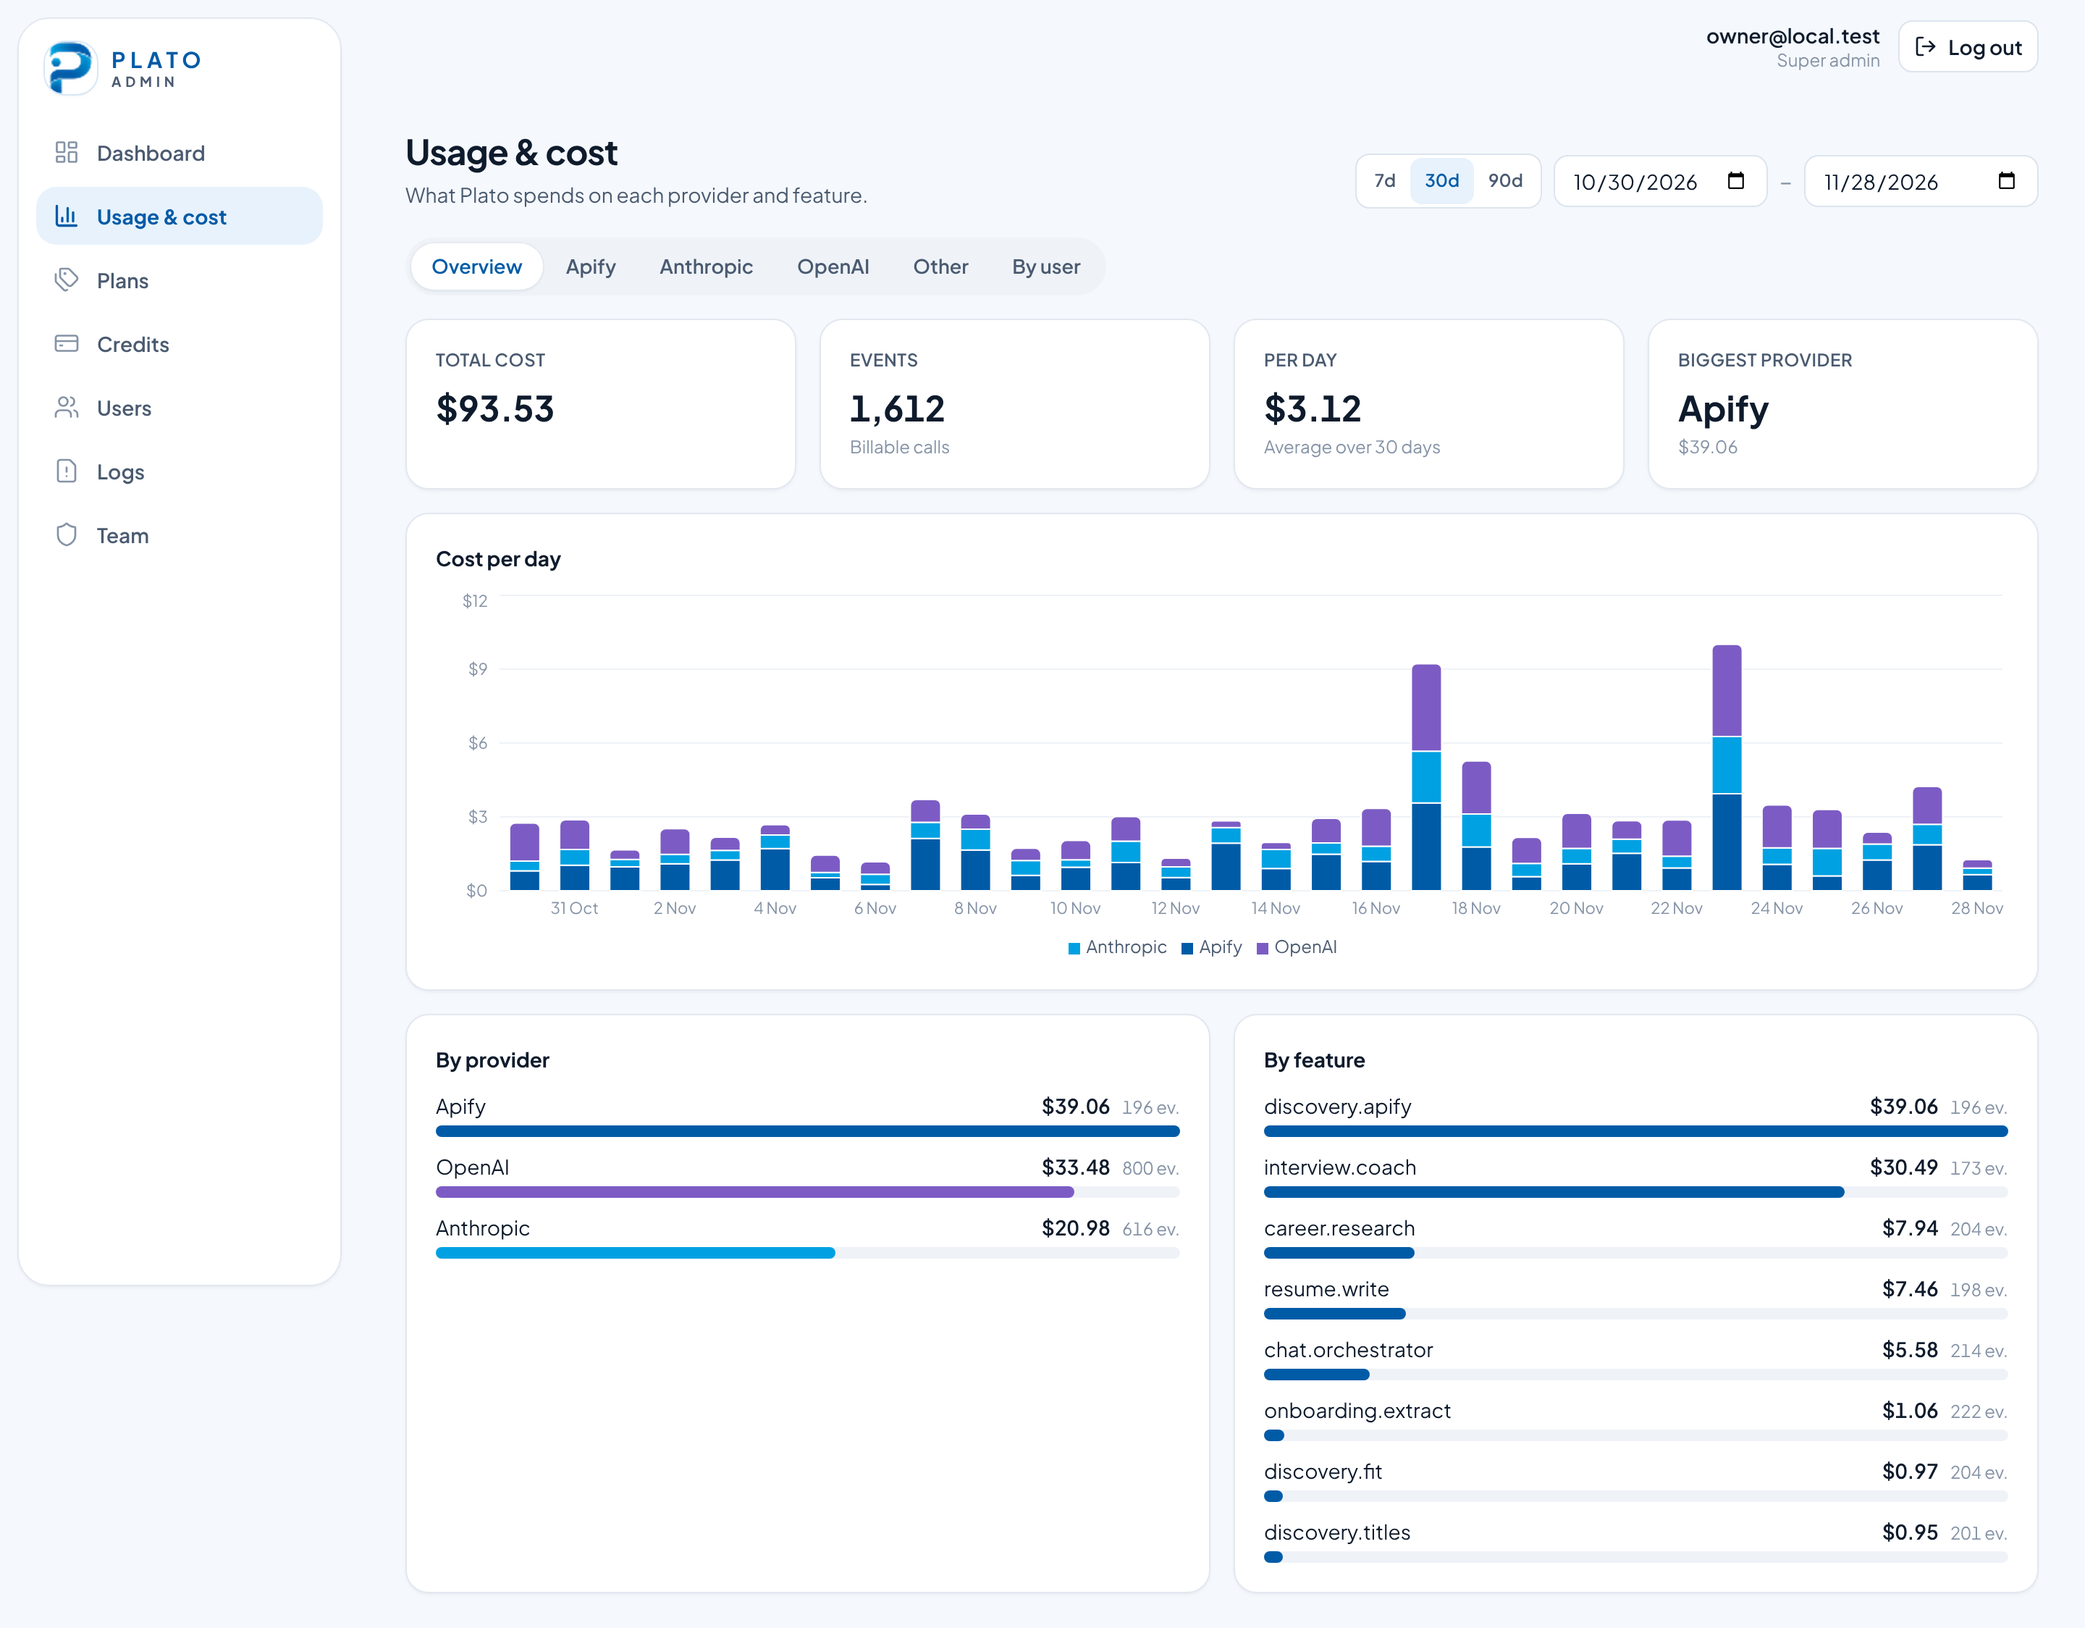
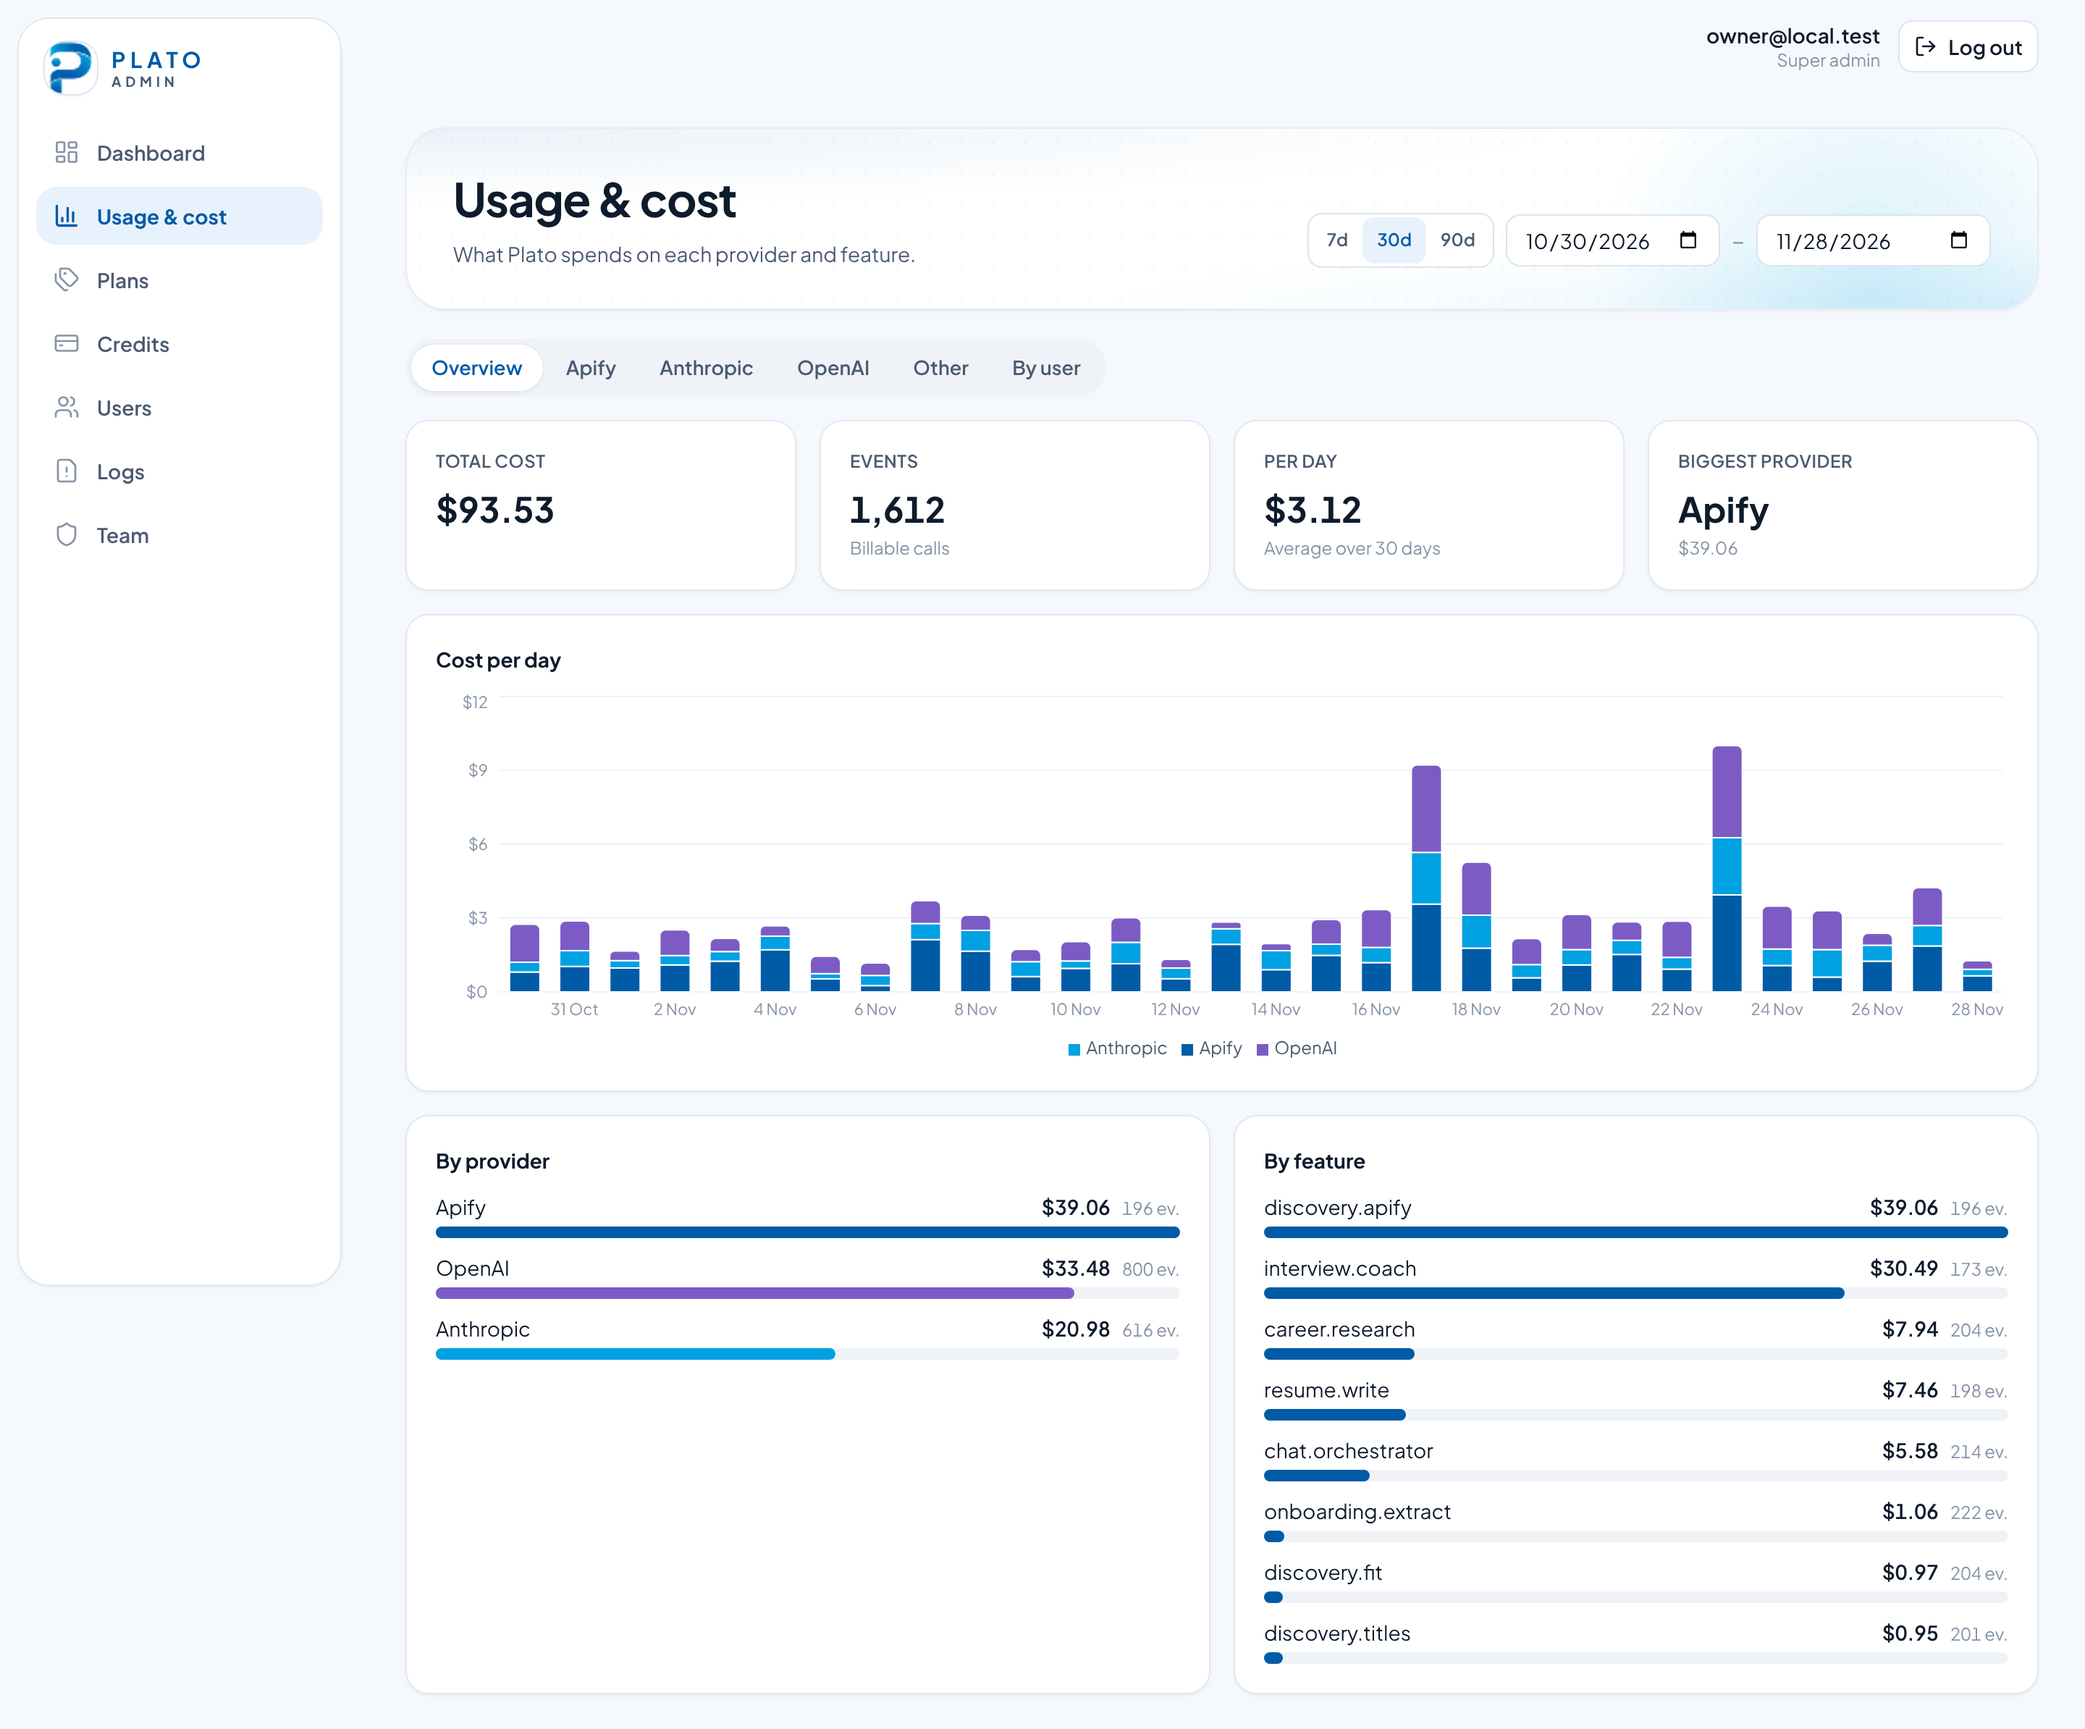
Admin: every page's header is the brand panel (fx-depth layers), section name above sub-pages
Claude-Session: https://claude.ai/code/session_01VMzvXqUWVHxk74mjrZamoN

diff --git a/plato-admin/src/components/BrandHeader.tsx b/plato-admin/src/components/BrandHeader.tsx
@@ -7,15 +7,34 @@ export const BRAND_PANEL =
 // Chips and secondary controls sitting on the brand panel.
 export const BRAND_GLASS = 'border border-primary-line/70 bg-card/85 backdrop-blur-sm';
 
-const greeting = (h = new Date().getHours()) => (h < 5 ? 'Good evening' : h < 12 ? 'Good morning' : h < 18 ? 'Good afternoon' : 'Good evening');
+export const greeting = (h = new Date().getHours()) =>
+  h < 5 ? 'Good evening' : h < 12 ? 'Good morning' : h < 18 ? 'Good afternoon' : 'Good evening';
+
+/** "Saturday, 28 November". */
+export const today = (d = new Date()) =>
+  `${d.toLocaleDateString('en-GB', { weekday: 'long' })}, ${d.toLocaleDateString('en-GB', { day: 'numeric', month: 'long' })}`;
 
 /**
- * A page's header as the seeker Home draws it: date, greeting, title line, a status pill, and the
- * page's actions in the usual top-right spot. Its two background layers drift with the pointer at
- * their own rates (.fx-depth, written by CardFx); still with reduced motion or on touch.
+ * Every page's header, as the seeker Home draws it: a small eyebrow, the title, a line under it
+ * (plain text, or a status pill with a live dot), and the page's actions in the usual top-right spot.
+ * Its two background layers drift with the pointer at their own rates (.fx-depth, written by CardFx);
+ * still with reduced motion or on touch.
  */
-export function BrandHeader({ title, status, live, actions }: { title: ReactNode; status?: ReactNode; live?: boolean; actions?: ReactNode }) {
-  const now = new Date();
+export function BrandHeader({
+  eyebrow,
+  title,
+  description,
+  status,
+  live,
+  actions,
+}: {
+  eyebrow?: ReactNode;
+  title: ReactNode;
+  description?: ReactNode;
+  status?: ReactNode;
+  live?: boolean;
+  actions?: ReactNode;
+}) {
   return (
     <section className={`${BRAND_PANEL} fx-depth enter relative isolate mb-5 overflow-hidden rounded-[28px] px-5 py-6 shadow-card sm:px-8 sm:py-7`}>
       <span
@@ -28,12 +47,9 @@ export function BrandHeader({ title, status, live, actions }: { title: ReactNode
       />
       <div className="flex flex-col gap-5 lg:flex-row lg:items-end lg:justify-between">
         <div className="min-w-0">
-          <p className="text-[12px] font-bold tracking-[0.22em] text-text-tertiary uppercase">
-            {now.toLocaleDateString('en-GB', { weekday: 'long' })}, {now.toLocaleDateString('en-GB', { day: 'numeric', month: 'long' })}
-          </p>
-          <h1 className="mt-2 text-[28px] leading-tight font-extrabold tracking-tight sm:text-[34px]">
-            {greeting()} <span className="text-text-tertiary">·</span> {title}
-          </h1>
+          {eyebrow && <p className="text-[12px] font-bold tracking-[0.22em] text-text-tertiary uppercase">{eyebrow}</p>}
+          <h1 className={`${eyebrow ? 'mt-2' : ''} text-[26px] leading-tight font-extrabold tracking-tight break-words sm:text-[32px]`}>{title}</h1>
+          {description && <div className="mt-2 text-sm text-text-secondary">{description}</div>}
           {status && (
             // wraps on a phone instead of cutting the numbers off; one line from sm up
             <p className={`${BRAND_GLASS} mt-3 inline-flex max-w-full items-center gap-2.5 rounded-2xl py-1.5 pr-4 pl-2.5 text-sm sm:rounded-full`}>
@@ -45,7 +61,7 @@ export function BrandHeader({ title, status, live, actions }: { title: ReactNode
             </p>
           )}
         </div>
-        {actions && <div className="flex flex-wrap items-center gap-2 lg:justify-end">{actions}</div>}
+        {actions && <div className="flex shrink-0 flex-wrap items-center gap-2 lg:justify-end">{actions}</div>}
       </div>
     </section>
   );

diff --git a/plato-admin/src/components/ui.tsx b/plato-admin/src/components/ui.tsx
@@ -1,22 +1,23 @@
 import { useId, type ReactNode } from 'react';
-import { Link, NavLink } from 'react-router';
+import { Link, NavLink, useLocation } from 'react-router';
 import { ArrowUpRight, Loader2 } from 'lucide-react';
 import * as m from 'motion/react-m';
 import type { ApiError } from '../lib/api';
 import { spring } from '../lib/motion';
+import { NAV } from '../lib/nav';
+import { BrandHeader } from './BrandHeader';
 import { CountUp } from './CountUp';
 
-/** Title on the left, the page's action bar on the right — the same spot on every page. */
-export function PageHeader({ title, description, actions }: { title: ReactNode; description?: ReactNode; actions?: ReactNode }) {
-  return (
-    <div className="mb-5 flex flex-col gap-3 sm:flex-row sm:items-end sm:justify-between">
-      <div className="min-w-0">
-        <h1 className="truncate text-xl font-bold tracking-tight sm:text-2xl">{title}</h1>
-        {description && <p className="mt-1 text-sm text-text-secondary">{description}</p>}
-      </div>
-      {actions && <div className="flex flex-wrap items-center gap-2 sm:justify-end">{actions}</div>}
-    </div>
-  );
+/**
+ * Every page's header: the brand panel (components/BrandHeader.tsx) with the section's name as its
+ * eyebrow, the title, its description, and the page's action bar on the right — the same spot on every page.
+ */
+export function PageHeader({ title, description, actions, eyebrow }: { title: ReactNode; description?: ReactNode; actions?: ReactNode; eyebrow?: ReactNode }) {
+  const { pathname } = useLocation();
+  const section = NAV.find((n) => n.to !== '/' && (pathname === n.to || pathname.startsWith(`${n.to}/`)))?.label;
+  // the section's name only where it adds something (a user's page, Rate limits), never above the same title
+  const crumb = eyebrow ?? (section && section !== title ? section : undefined);
+  return <BrandHeader eyebrow={crumb} title={title} description={description} actions={actions} />;
 }
 
 /**

diff --git a/plato-admin/src/pages/Dashboard.tsx b/plato-admin/src/pages/Dashboard.tsx
@@ -1,4 +1,4 @@
-import { BrandHeader } from '../components/BrandHeader';
+import { BrandHeader, greeting, today } from '../components/BrandHeader';
 import { DateRange } from '../components/DateRange';
 import { BarList, providerColor, providerLabel } from '../components/charts';
 import { ErrorNote, Grid2, PageSkeleton, Section, Stat, StatGrid } from '../components/ui';
@@ -20,7 +20,12 @@ export default function Dashboard() {
   return (
     <>
       <BrandHeader
-        title="Dashboard"
+        eyebrow={today()}
+        title={
+          <>
+            {greeting()} <span className="text-text-tertiary">·</span> Dashboard
+          </>
+        }
         live={!!data?.users.activeInRange}
         status={
           data ? (
